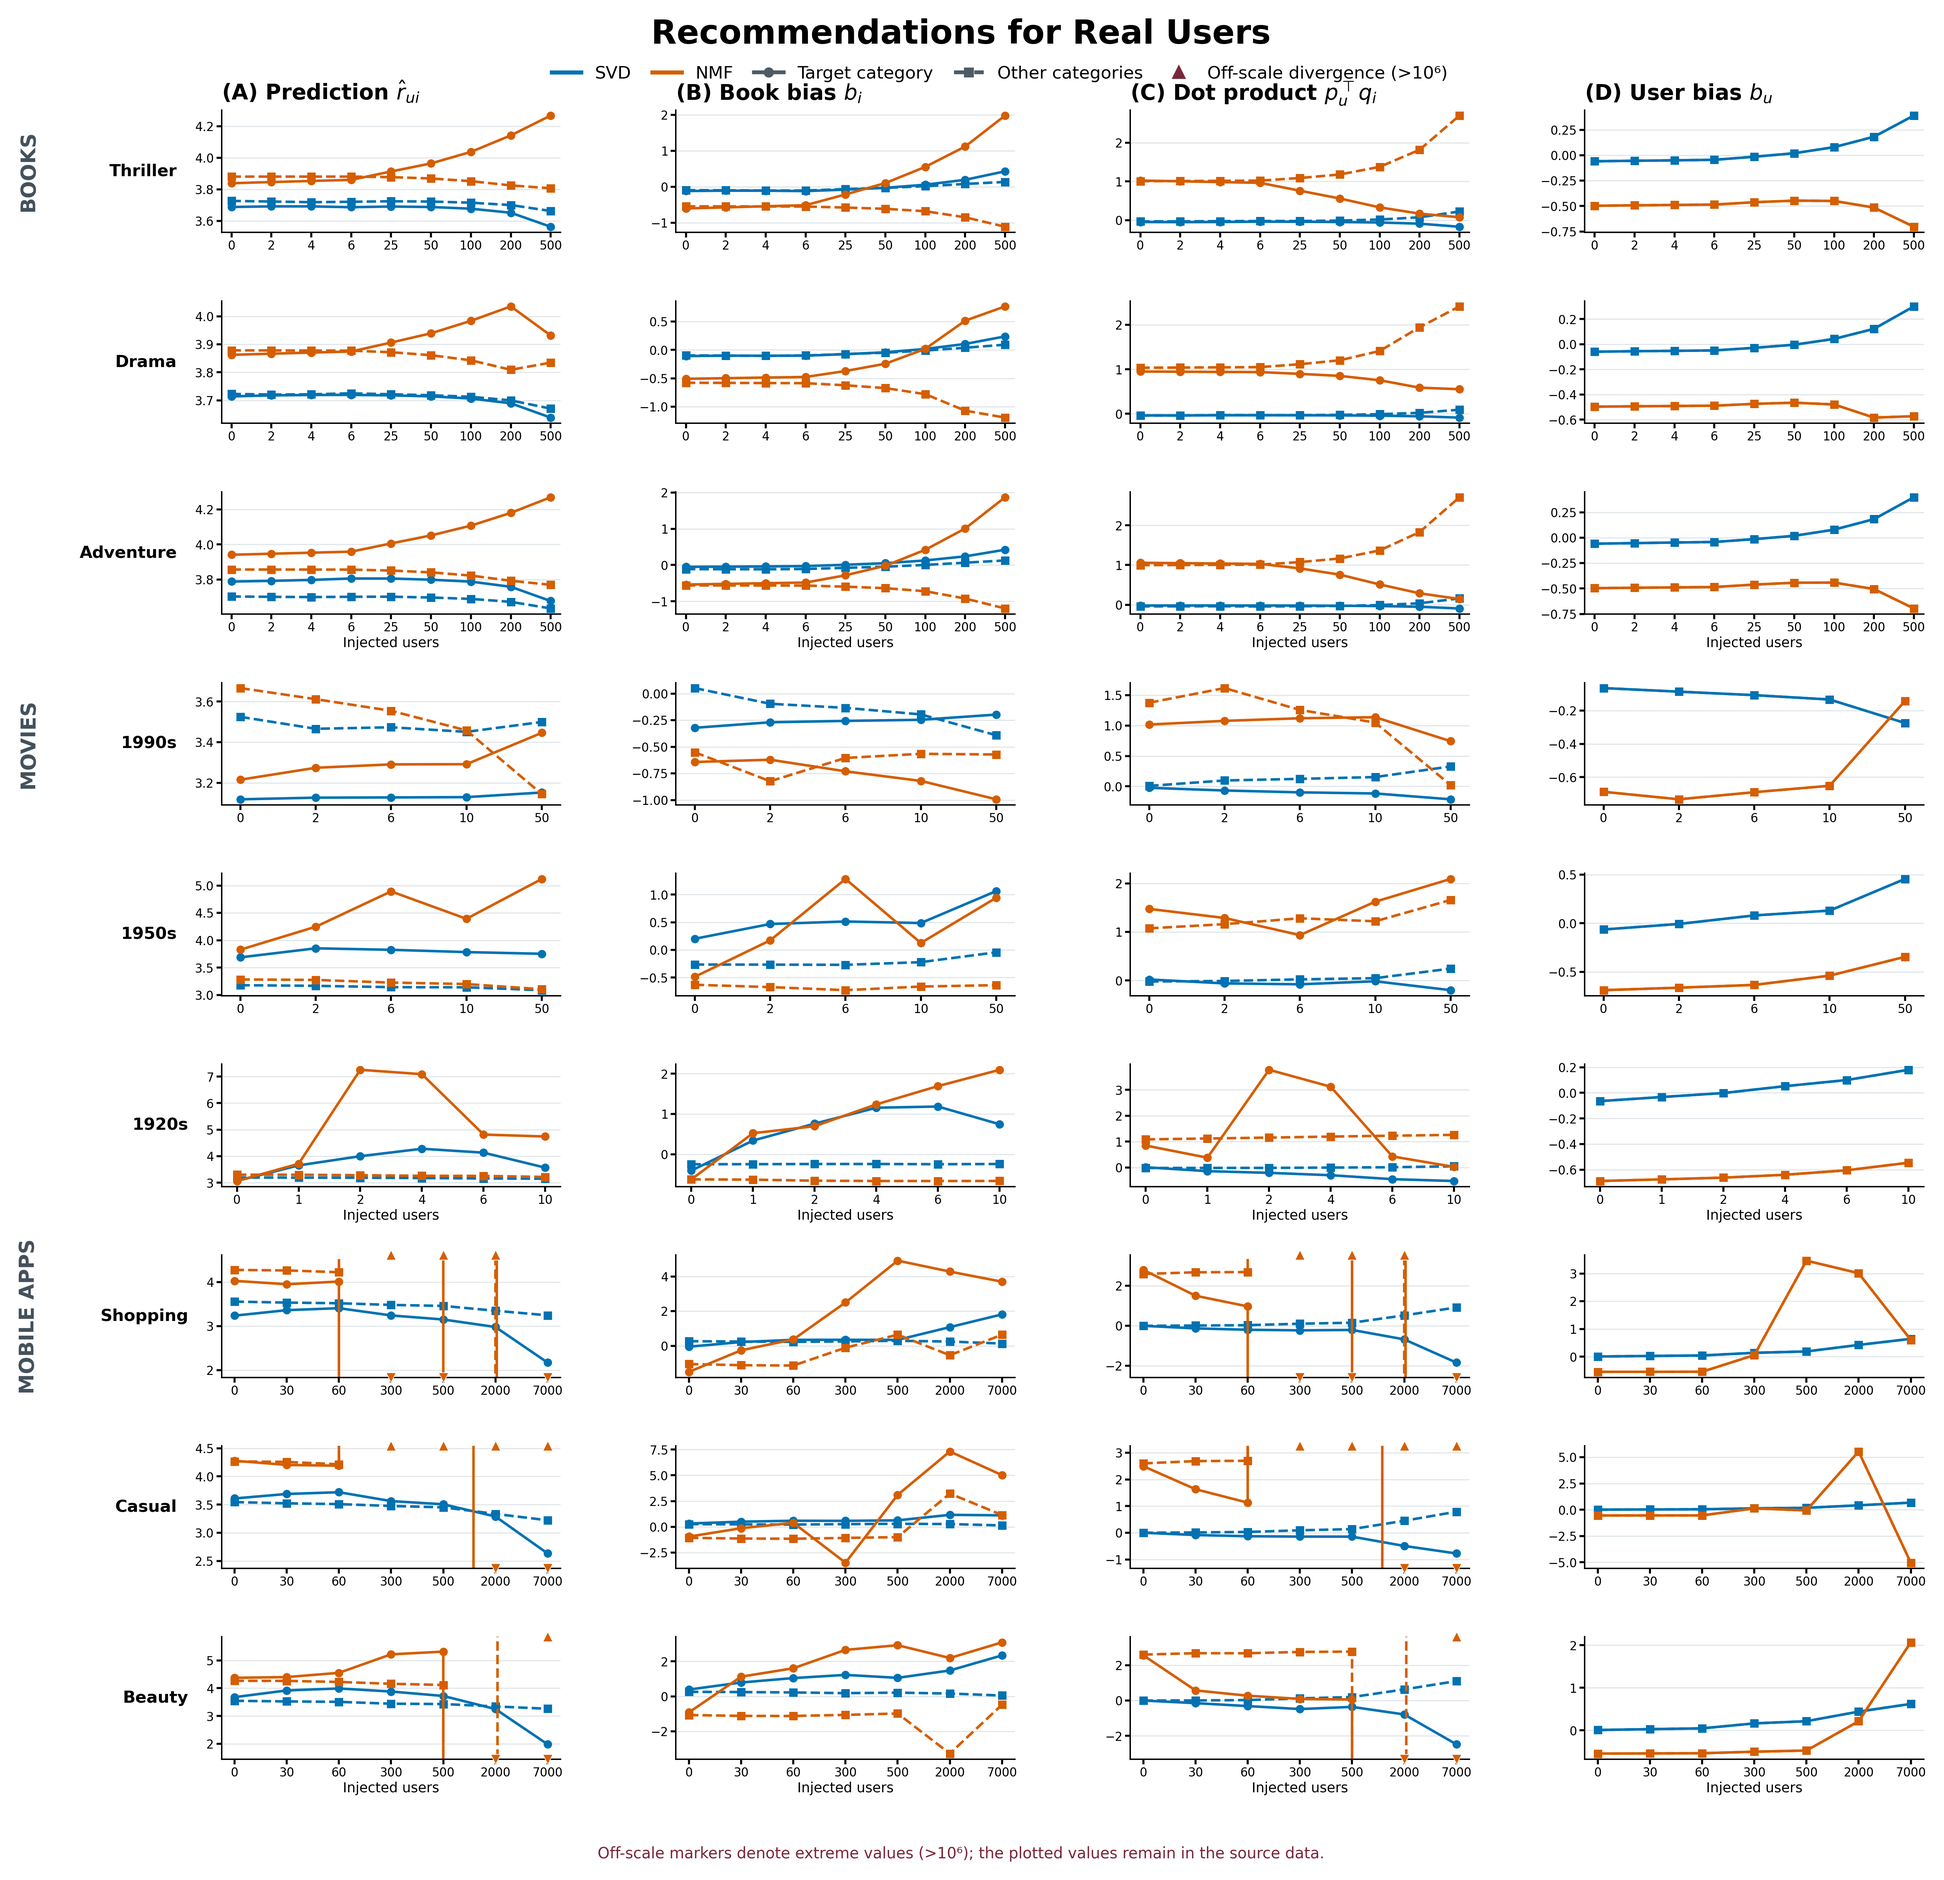
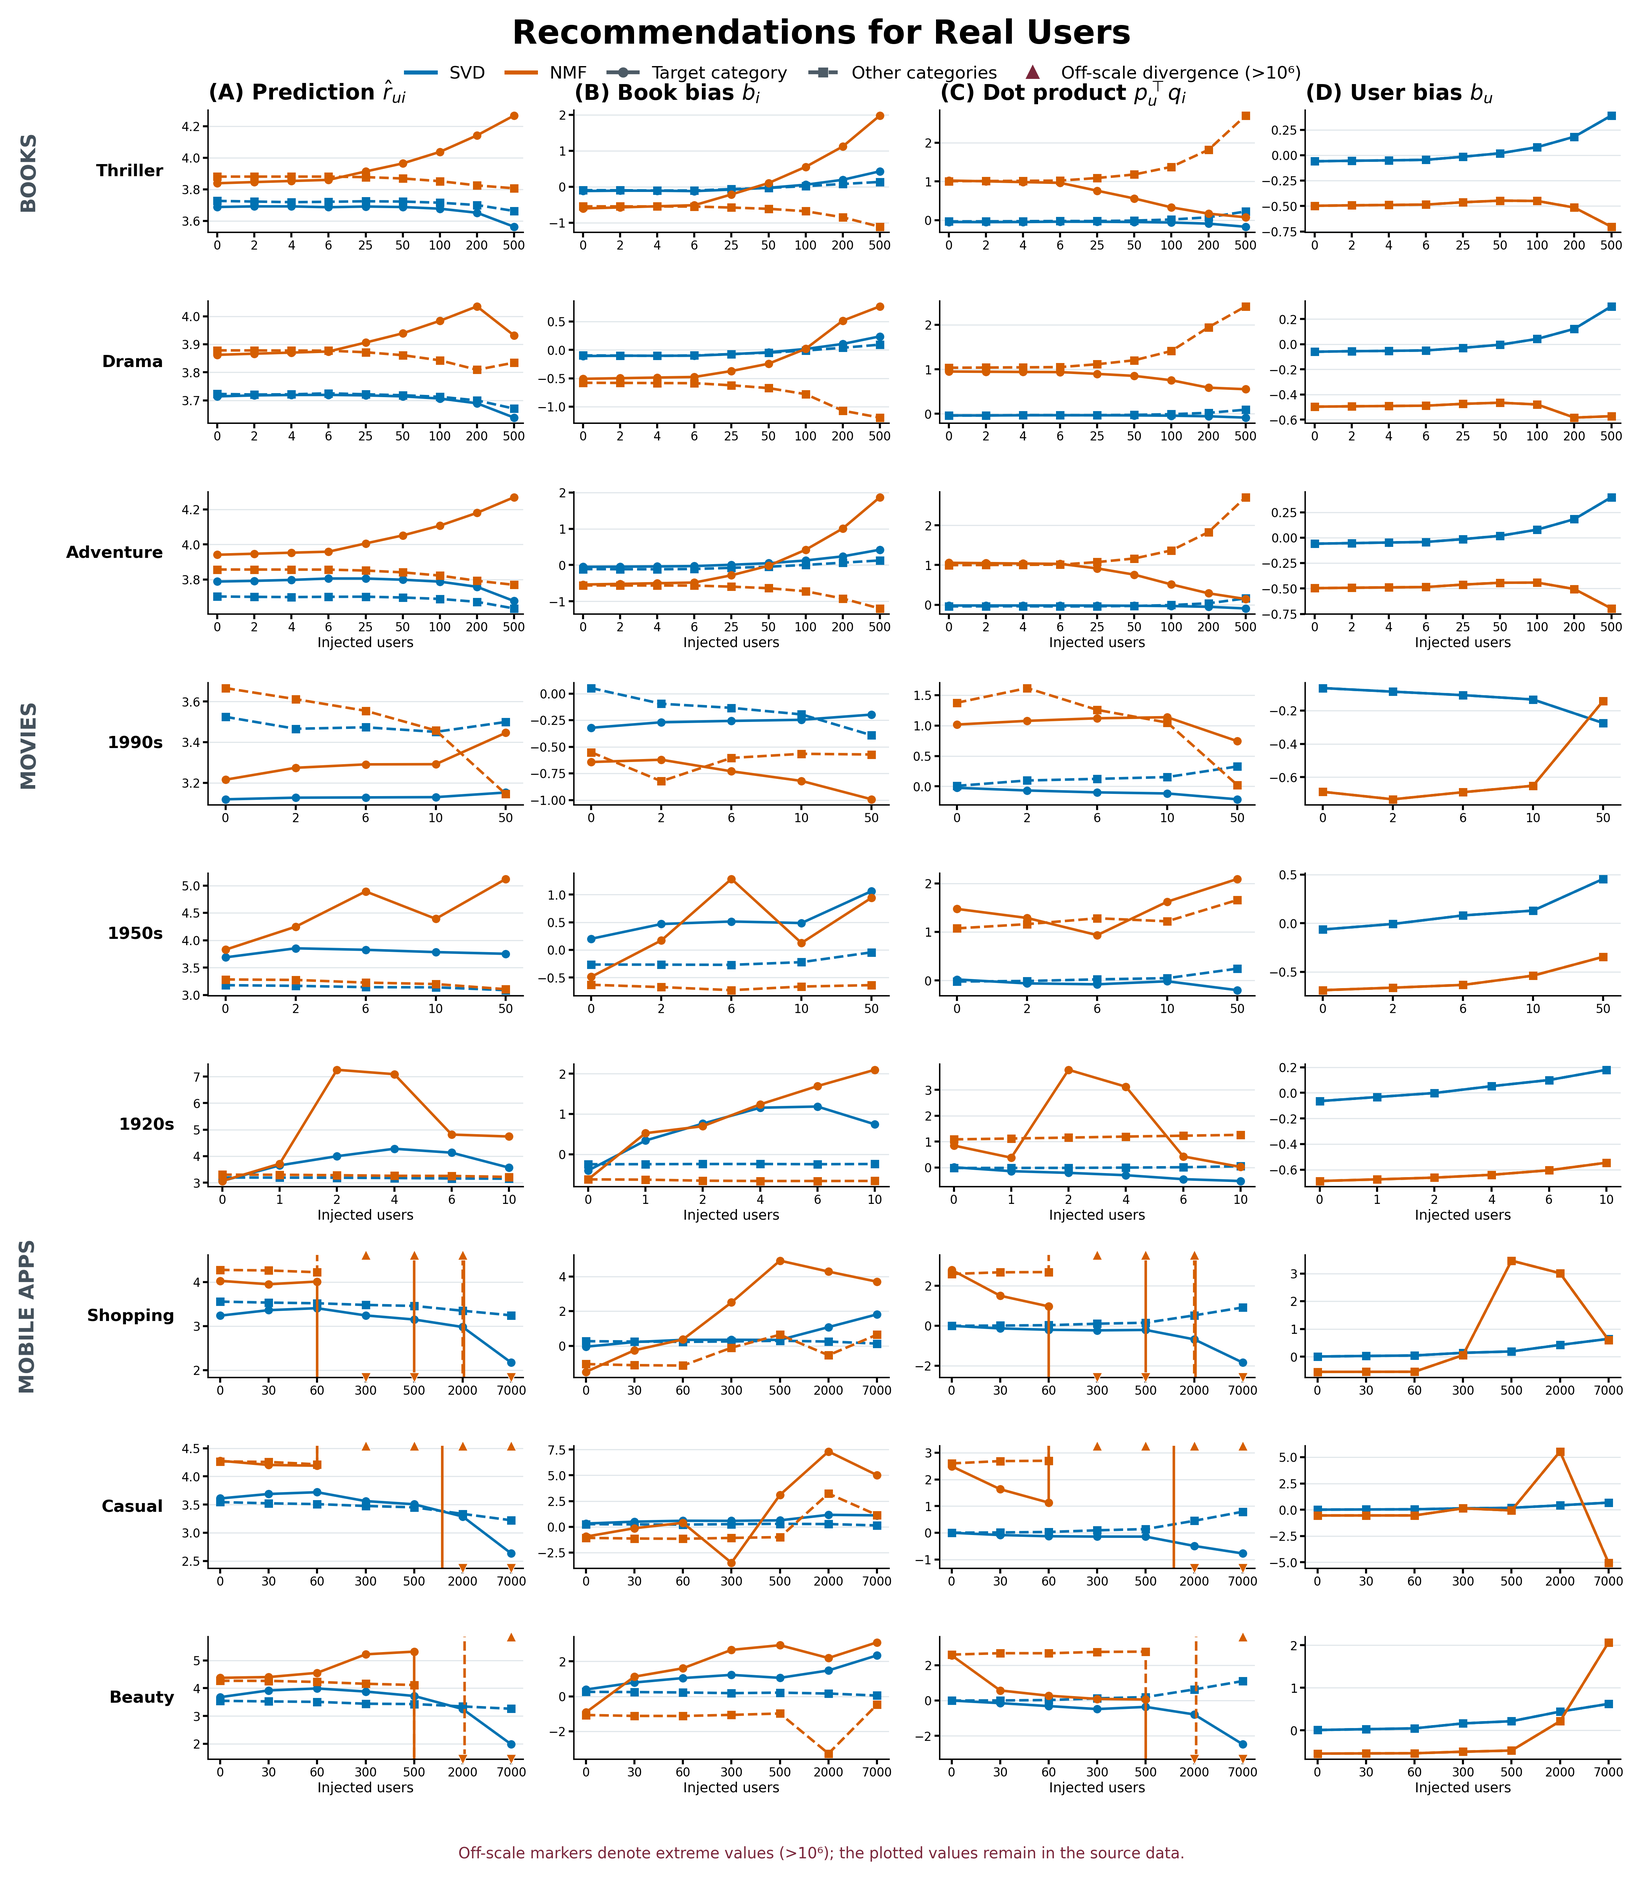
Tighten spacing in nine-category figures

diff --git a/First_paper_material/notebook/build_nine_category_composites.py b/First_paper_material/notebook/build_nine_category_composites.py
@@ -63,7 +63,7 @@ def load_row(row,view):
 def draw(view,panels,filename,title):
  ncols=len(panels)
  # Shorten each horizontal plotting area while retaining the nine-row height.
- fig,axs=plt.subplots(9,ncols,figsize=(12.5 if ncols==5 else 10.6,10.2),squeeze=False)
+ fig,axs=plt.subplots(9,ncols,figsize=(10.4 if ncols==5 else 8.8,10.2),squeeze=False)
  for ri,row in enumerate(rows):
   d,ns=load_row(row,view)
   x=np.arange(len(ns))
@@ -133,7 +133,7 @@ def draw(view,panels,filename,title):
  handles.append(Line2D([],[],color='#7A263A',marker='^',ls='none',ms=4,label='Off-scale divergence (>10⁶)'))
  fig.legend(handles=handles,loc='upper center',bbox_to_anchor=(.52,.978),ncol=len(handles),frameon=False,fontsize=6.8,handlelength=1.7,columnspacing=1.2)
  fig.text(.5,.012,'Off-scale markers denote extreme values (>10⁶); the plotted values remain in the source data.',ha='center',fontsize=6,color='#7A263A')
- fig.subplots_adjust(left=.12,right=.995,top=.946,bottom=.065,hspace=.56,wspace=.34)
+ fig.subplots_adjust(left=.12,right=.995,top=.946,bottom=.065,hspace=.56,wspace=.16)
  path=OUT/filename
  fig.savefig(path,dpi=500,bbox_inches='tight')
  plt.close(fig)
